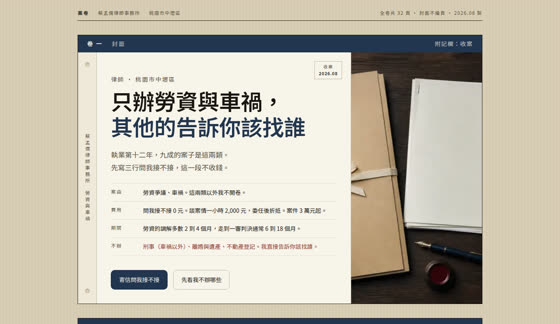
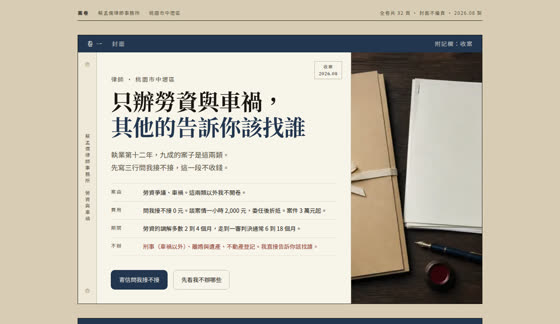
examples: 換掉四塊假的佔位色塊,律師那份修掉討論區感
yazelin 看完指出兩件事,都對:

一、florist 的花牌上還是假圖。那四塊是 CSS 漸層畫的色塊,
看起來就像沒載入的圖。換成四張真照片,各自對到花種
(洋牡丹、桔梗、大理花、混合花束),同一套風格與色票。
順手清掉先前迭代留下的死 CSS(.peek/.tag2.mini/.today/.tagline)。

二、lawyer 缺專業度。三個根因:
1. 底色是牛皮紙條紋,法律事務所配瓦楞紙紋像文具行樣本 -> 拿掉
2. 全站零襯線體 -> 標題與卷號改明體,中文的權威感靠這個
3. 那段清單是「左編號 中標題摘要 右狀態按鈕」,那是論壇列表的版型
   -> 改成文件表格:頁次 / 案由與範圍 / 金額 / 開卷與否,
      細線分隔,拿掉填色徽章。順便統一三十二列的欄位順序,
      原本有兩種寫法,指定 grid-column 之後會錯位到第二列。

圖全部轉 webp,四張花照共 100KB,img 目錄總共 428KB。

Changed region(s): [[0.1821, 0.2778, 0.5464, 0.4321], [0.5768, 0.216, 0.6071, 0.2469], [0.1518, 0.1235, 0.1821, 0.1543]]

diff --git a/examples/lawyer.html b/examples/lawyer.html
@@ -44,10 +44,13 @@
     --mark: #8e3a2f;  --tint: #efe9d9;
     --maxw-text: 34em;
   }
-  body { background: var(--bg); color: var(--fg);
-    background-image: repeating-linear-gradient(90deg,
-      rgba(26,23,18,.05) 0 1px, transparent 1px 8px); }
+  body { background: var(--bg); color: var(--fg); }
 
+  /* 法律文件的權威感靠明體。沒有 Noto Serif 的機器退回系統襯線體。 */
+  h1, h2, .vol__bar .t, .cover .intake b, .pg__b b {
+    font-family: "Noto Serif TC", "Noto Serif CJK TC", "Source Han Serif TC",
+                 "Songti TC", Georgia, serif; }
+  h1, h2 { font-weight: 700; }
   .file { max-width: 66rem; margin-inline: auto; padding-inline: var(--space-3); }
   section { padding: 0; }
   h1 span, h2 span { display: inline-block; }
@@ -131,8 +134,7 @@
   .tab--in { border-left: 5px solid var(--accent); }
   .tab--out { border-style: dashed; border-color: var(--line); background: transparent;
     color: var(--fg-muted);
-    background-image: repeating-linear-gradient(45deg,
-      transparent 0 7px, rgba(26,23,18,.06) 7px 14px); }
+    background-image: none; }
   .tab i { font-style: normal; font-size: 0.66rem; letter-spacing: 0.1em;
     color: var(--fg-muted); text-combine-upright: all; }
   .tab--in i { color: var(--accent); }
@@ -149,21 +151,32 @@
   .pages { list-style: none; margin: 0; padding: 0; }
   .pages > li { border-bottom: 1px solid var(--rule); }
   .pages > li:last-child { border-bottom: 0; }
-  .pg { display: grid; grid-template-columns: 3.4rem minmax(0, 1fr);
-    gap: 0 var(--space-2); padding: var(--space-3); }
-  .pg__n { font-size: 0.7rem; letter-spacing: 0.1em; color: var(--fg-muted);
+  /* 條列式的文件表格。原本是「左編號 中標題摘要 右狀態按鈕」,那是論壇列表的版型。 */
+  .pg { display: grid; grid-template-columns: 4.2rem minmax(0, 1fr) 6.5rem 5.5rem;
+    gap: 0 var(--space-3); padding: var(--space-3) var(--space-2);
+    align-items: baseline; }
+  @media (max-width: 46rem){
+    .pg { grid-template-columns: 4.2rem minmax(0,1fr); }
+  }
+  .pg__n { grid-column: 1; font-size: 0.7rem; letter-spacing: 0.1em; color: var(--fg-muted);
     font-variant-numeric: tabular-nums; padding-top: 0.35rem; }
+  .pg__b { grid-column: 2; }
   .pg__b b { display: block; font-size: var(--step-0); font-weight: 600; }
   .pg__b i { display: block; font-style: normal; font-size: var(--step-s);
     color: var(--fg-muted); max-width: 38em; }
-  .pg__s { grid-column: 2; display: flex; flex-wrap: wrap; align-items: baseline;
-    gap: 0.5rem var(--space-2); margin-top: 0.5rem; font-size: var(--step-s); }
-  .pg__t { border: 1px solid var(--line); padding: 0.05rem 0.5rem;
-    font-size: 0.7rem; letter-spacing: 0.14em; white-space: nowrap; }
-  .pg__t--in { border-color: var(--accent); color: var(--accent-fg);
-    background: var(--accent); }
-  .pg__t--out { border-color: var(--mark); color: var(--mark); border-style: dashed; }
-  .pg__v { color: var(--fg-muted); font-variant-numeric: tabular-nums; }
+  /* 起價與開卷與否各自成欄,靠細線與對齊分開,不用填色徽章。 */
+  .pg__s { display: contents; }
+  .pg__t { grid-column: 4; grid-row: 1; font-size: 0.76rem; letter-spacing: 0.1em;
+    white-space: nowrap; text-align: right; }
+  .pg__t--in { color: var(--accent); }
+  .pg__t--out { color: var(--mark); }
+  .pg__v { grid-column: 3; grid-row: 1; color: var(--fg); font-variant-numeric: tabular-nums;
+    font-size: var(--step-s); text-align: right; white-space: nowrap; }
+  @media (max-width: 46rem){
+    .pg__s { display: flex; grid-column: 2; gap: var(--space-2);
+      margin-top: 0.5rem; align-items: baseline; }
+    .pg__t, .pg__v { grid-column: auto; grid-row: auto; text-align: left; }
+  }
 
   /* 卷末註記。這一卷收在哪裡 */
   .vol__end { border-top: 1px solid var(--fg); background: var(--tint);
@@ -277,43 +290,43 @@
     <ol class="pages">
       <li><div class="pg"><span class="pg__n">頁 001</span>
         <span class="pg__b"><b>勞資爭議</b><i>解僱與資遣、資遣費與預告工資、加班費與工資、特休、離職後的競業禁止條款。勞動契約要簽之前拿來給我看也算這一類。</i></span>
-        <span class="pg__s"><span class="pg__t pg__t--in">開卷</span><span class="pg__v">5 萬元起</span></span>
+        <span class="pg__s"><span class="pg__v">5 萬元起</span><span class="pg__t pg__t--in">開卷</span></span>
       </div></li>
       <li><div class="pg"><span class="pg__n">頁 002</span>
         <span class="pg__b"><b>職業災害</b><i>上班受傷或通勤受傷之後，和公司談不攏的補償與賠償。醫療期間的工資與後續的失能部分都在這一頁裡。</i></span>
-        <span class="pg__s"><span class="pg__t pg__t--in">開卷</span><span class="pg__v">8 萬元起</span></span>
+        <span class="pg__s"><span class="pg__v">8 萬元起</span><span class="pg__t pg__t--in">開卷</span></span>
       </div></li>
       <li><div class="pg"><span class="pg__n">頁 003</span>
         <span class="pg__b"><b>車禍求償</b><i>對方或保險公司給的數字你覺得不對，走和解、調解或民事訴訟。汽機車、行人被撞、乘客受傷都接。</i></span>
-        <span class="pg__s"><span class="pg__t pg__t--in">開卷</span><span class="pg__v">3 萬元起</span></span>
+        <span class="pg__s"><span class="pg__v">3 萬元起</span><span class="pg__t pg__t--in">開卷</span></span>
       </div></li>
       <li><div class="pg"><span class="pg__n">頁 004</span>
         <span class="pg__b"><b>車禍的刑事部分</b><i>過失傷害的告訴與和解，還有附帶提起的民事求償。被告那一方我也接，兩邊我不會同時接同一件。</i></span>
-        <span class="pg__s"><span class="pg__t pg__t--in">開卷</span><span class="pg__v">4 萬元起</span></span>
+        <span class="pg__s"><span class="pg__v">4 萬元起</span><span class="pg__t pg__t--in">開卷</span></span>
       </div></li>
       <li><div class="pg"><span class="pg__n">頁 005</span>
         <span class="pg__b"><b>車禍以外的刑事案件</b><i>毒品、詐欺、傷害、公共危險，我一件都不接。刑事辯護要靠平常一直在做的手感，我沒有。</i></span>
-        <span class="pg__s"><span class="pg__t pg__t--out">不開卷</span><span class="pg__v">給你兩個同業的名字</span></span>
+        <span class="pg__s"><span class="pg__v">給你兩個同業的名字</span><span class="pg__t pg__t--out">不開卷</span></span>
       </div></li>
       <li><div class="pg"><span class="pg__n">頁 006</span>
         <span class="pg__b"><b>離婚、監護、遺產分割</b><i>家事的節奏和勞資完全不同，排期也長，我沒有在做。接了你要多等的是時間。</i></span>
-        <span class="pg__s"><span class="pg__t pg__t--out">不開卷</span><span class="pg__v">給你兩個同業的名字</span></span>
+        <span class="pg__s"><span class="pg__v">給你兩個同業的名字</span><span class="pg__t pg__t--out">不開卷</span></span>
       </div></li>
       <li><div class="pg"><span class="pg__n">頁 007</span>
         <span class="pg__b"><b>不動產登記、繼承登記、買賣過戶</b><i>那是地政士（代書）在做的事，跑件的流程他們比我熟，收費也比找律師低。</i></span>
-        <span class="pg__s"><span class="pg__t pg__t--out">不開卷</span><span class="pg__v">找地政士</span></span>
+        <span class="pg__s"><span class="pg__v">找地政士</span><span class="pg__t pg__t--out">不開卷</span></span>
       </div></li>
       <li><div class="pg"><span class="pg__n">頁 008</span>
         <span class="pg__b"><b>公司、商務契約、智慧財產、跨國案件</b><i>不接。分界線在這裡：你和員工之間的契約我看，你和另一家公司之間的契約我不看。</i></span>
-        <span class="pg__s"><span class="pg__t pg__t--out">不開卷</span><span class="pg__v">給你兩個同業的名字</span></span>
+        <span class="pg__s"><span class="pg__v">給你兩個同業的名字</span><span class="pg__t pg__t--out">不開卷</span></span>
       </div></li>
       <li><div class="pg"><span class="pg__n">頁 009</span>
         <span class="pg__b"><b>一審開到一半才要換律師</b><i>先看卷。卷裡已經講出去的話收不回來，我要確認換人對你真的有幫助，才會接。看卷這一段照諮詢收費。</i></span>
-        <span class="pg__s"><span class="pg__t">看卷再定</span><span class="pg__v">2,000 元一小時</span></span>
+        <span class="pg__s"><span class="pg__v">2,000 元一小時</span><span class="pg__t">看卷再定</span></span>
       </div></li>
       <li><div class="pg"><span class="pg__n">頁 010</span>
         <span class="pg__b"><b>要我保證告得贏</b><i>沒有人保證得了，法官還沒看過你的證據。你如果需要的是那句保證，我這裡給不了，這種委任我不接。</i></span>
-        <span class="pg__s"><span class="pg__t pg__t--out">不開卷</span><span class="pg__v">當場說不</span></span>
+        <span class="pg__s"><span class="pg__v">當場說不</span><span class="pg__t pg__t--out">不開卷</span></span>
       </div></li>
     </ol>
 
@@ -326,31 +339,31 @@
     <ol class="pages">
       <li><div class="pg"><span class="pg__n">頁 011</span>
         <span class="pg__b"><b>問我接不接，不收錢</b><i>寫三行給我：發生什麼、什麼時候、你想要什麼結果。我回你接或不接，不接會寫該找誰。這一段沒有帳單。</i></span>
-        <span class="pg__s"><span class="pg__t">不收費</span><span class="pg__v">0 元</span></span>
+        <span class="pg__s"><span class="pg__v">0 元</span><span class="pg__t">不收費</span></span>
       </div></li>
       <li><div class="pg"><span class="pg__n">頁 012</span>
         <span class="pg__b"><b>要談你的案情，一小時 2,000 元</b><i>把資料攤開來看，講你這件事有哪幾條路、各要花多少時間。後來委任我，這筆從案件費用裡扣掉。</i></span>
-        <span class="pg__s"><span class="pg__t">諮詢</span><span class="pg__v">2,000 元一小時</span></span>
+        <span class="pg__s"><span class="pg__v">2,000 元一小時</span><span class="pg__t">諮詢</span></span>
       </div></li>
       <li><div class="pg"><span class="pg__n">頁 013</span>
         <span class="pg__b"><b>勞資：調解程序</b><i>含撰狀、算金額、陪你出席調解期日。多數勞資案子先走這一段，很多也在這一段就結束了。</i></span>
-        <span class="pg__s"><span class="pg__t">案件</span><span class="pg__v">4 萬元起</span></span>
+        <span class="pg__s"><span class="pg__v">4 萬元起</span><span class="pg__t">案件</span></span>
       </div></li>
       <li><div class="pg"><span class="pg__n">頁 014</span>
         <span class="pg__b"><b>訴訟：按審級算，一審 8 萬元起</b><i>一審從遞狀到判決是同一筆，開幾次庭都不再加錢。要不要上訴到二審，判決下來我們再談，那是另一筆。</i></span>
-        <span class="pg__s"><span class="pg__t">案件</span><span class="pg__v">8 萬元起</span></span>
+        <span class="pg__s"><span class="pg__v">8 萬元起</span><span class="pg__t">案件</span></span>
       </div></li>
       <li><div class="pg"><span class="pg__n">頁 015</span>
         <span class="pg__b"><b>車禍：和解或調解的代理</b><i>陪你去區公所的調解委員會或和保險公司談。談成就結案，談不成要不要走訴訟，你決定。</i></span>
-        <span class="pg__s"><span class="pg__t">案件</span><span class="pg__v">3 萬元起</span></span>
+        <span class="pg__s"><span class="pg__v">3 萬元起</span><span class="pg__t">案件</span></span>
       </div></li>
       <li><div class="pg"><span class="pg__n">頁 016</span>
         <span class="pg__b"><b>不收成功報酬，可以分期</b><i>簽委任契約那天你就知道總共要付多少，不會贏了再多抽一份。簽約付一半，剩下的分兩期。</i></span>
-        <span class="pg__s"><span class="pg__t">付款</span><span class="pg__v">簽約付一半</span></span>
+        <span class="pg__s"><span class="pg__v">簽約付一半</span><span class="pg__t">付款</span></span>
       </div></li>
       <li><div class="pg"><span class="pg__n">頁 017</span>
         <span class="pg__b"><b>規費、鑑定費這些代墊款另計</b><i>要墊之前先告訴你金額，你點頭我才墊。每一筆都有收據，結案時一起對。</i></span>
-        <span class="pg__s"><span class="pg__t">代墊</span><span class="pg__v">實支實付</span></span>
+        <span class="pg__s"><span class="pg__v">實支實付</span><span class="pg__t">代墊</span></span>
       </div></li>
     </ol>
     <div class="vol__end"><p>會跟你收的錢都在這七頁裡。委任契約拿到手可以帶回去看兩天，再回來簽。</p></div>
@@ -362,27 +375,27 @@
     <ol class="pages">
       <li><div class="pg"><span class="pg__n">頁 018</span>
         <span class="pg__b"><b>寄信給我之後</b><i>一到兩個工作天回你。在開庭的日子會晚一點，但不會沒有下文。</i></span>
-        <span class="pg__s"><span class="pg__t">回覆</span><span class="pg__v">1 到 2 個工作天</span></span>
+        <span class="pg__s"><span class="pg__v">1 到 2 個工作天</span><span class="pg__t">回覆</span></span>
       </div></li>
       <li><div class="pg"><span class="pg__n">頁 019</span>
         <span class="pg__b"><b>談一次要多久</b><i>一小時。多數人談完當天就知道要不要走下去，不用再約第二次。</i></span>
-        <span class="pg__s"><span class="pg__t">諮詢</span><span class="pg__v">1 小時</span></span>
+        <span class="pg__s"><span class="pg__v">1 小時</span><span class="pg__t">諮詢</span></span>
       </div></li>
       <li><div class="pg"><span class="pg__n">頁 020</span>
         <span class="pg__b"><b>勞資：法院的勞動調解</b><i>勞資的案子上法院之前原則上要先走這一關。從遞狀到第一次期日大約一到一個半月，多數在三次期日之內結束。</i></span>
-        <span class="pg__s"><span class="pg__t">調解</span><span class="pg__v">2 到 4 個月</span></span>
+        <span class="pg__s"><span class="pg__v">2 到 4 個月</span><span class="pg__t">調解</span></span>
       </div></li>
       <li><div class="pg"><span class="pg__n">頁 021</span>
         <span class="pg__b"><b>車禍：先談和解或調解</b><i>區公所的調解委員會排期大約一個月，一次談不成可以再排。這一段談得成，後面整段都省下來。</i></span>
-        <span class="pg__s"><span class="pg__t">調解</span><span class="pg__v">1 到 3 個月</span></span>
+        <span class="pg__s"><span class="pg__v">1 到 3 個月</span><span class="pg__t">調解</span></span>
       </div></li>
       <li><div class="pg"><span class="pg__n">頁 022</span>
         <span class="pg__b"><b>調解不成，進到一審</b><i>我手上這幾年的案子多半是半年到一年半，中間開三到六次庭。多數庭期你不用到，我去。這是區間，我不能保證。</i></span>
-        <span class="pg__s"><span class="pg__t">訴訟</span><span class="pg__v">6 到 18 個月</span></span>
+        <span class="pg__s"><span class="pg__v">6 到 18 個月</span><span class="pg__t">訴訟</span></span>
       </div></li>
       <li><div class="pg"><span class="pg__n">頁 023</span>
         <span class="pg__b"><b>會咬人的是期限</b><i>車禍要走刑事過失傷害，法律給的告訴期間是六個月；民事求償的時效通則是兩年。這兩個從哪一天起算要看事實，我不會在網頁上替你算，但你寄信來，我至少能先告訴你急不急。</i></span>
-        <span class="pg__s"><span class="pg__t pg__t--out">先問時效</span><span class="pg__v">六個月／兩年</span></span>
+        <span class="pg__s"><span class="pg__v">六個月／兩年</span><span class="pg__t pg__t--out">先問時效</span></span>
       </div></li>
     </ol>
     <div class="vol__end"><p>時間我先寫在這裡，是要你能自己排順序。開始之後每個月我會講一句現在在等什麼，沒有進度也會講。</p></div>
@@ -394,23 +407,23 @@
     <ol class="pages">
       <li><div class="pg"><span class="pg__n">頁 024</span>
         <span class="pg__b"><b>這一頁沒有一句話是針對你的案子講的</b><i>法律的答案幾乎都被事實決定：哪一天發生、簽過什麼、對方講過什麼、留下哪些紀錄。同一句「被資遣可以拿資遣費」，換一個到職日或換一種契約就是另一個答案。網頁上寫得出來的只有通則，通則多半用不到你這一件上。</i></span>
-        <span class="pg__s"><span class="pg__t pg__t--out">界線</span><span class="pg__v">不提供個案意見</span></span>
+        <span class="pg__s"><span class="pg__v">不提供個案意見</span><span class="pg__t pg__t--out">界線</span></span>
       </div></li>
       <li><div class="pg"><span class="pg__n">頁 025</span>
         <span class="pg__b"><b>為什麼電話裡我不會回答「我這樣告得贏嗎」</b><i>沒看過資料就給的答案，你拿去用會出事，而我要負責。把東西攤開來看再講，那就是收費諮詢在做的事。</i></span>
-        <span class="pg__s"><span class="pg__t pg__t--out">界線</span><span class="pg__v">看過資料才講</span></span>
+        <span class="pg__s"><span class="pg__v">看過資料才講</span><span class="pg__t pg__t--out">界線</span></span>
       </div></li>
       <li><div class="pg"><span class="pg__n">頁 026</span>
         <span class="pg__b"><b>第一次見面要帶什麼</b><i>手上有什麼就帶什麼：勞健保投保資料、出勤紀錄、對話紀錄、行車紀錄器影像、診斷證明、估價單。什麼都沒有也可以來，缺的我會告訴你去哪裡調。</i></span>
-        <span class="pg__s"><span class="pg__t">常問</span><span class="pg__v">有什麼帶什麼</span></span>
+        <span class="pg__s"><span class="pg__v">有什麼帶什麼</span><span class="pg__t">常問</span></span>
       </div></li>
       <li><div class="pg"><span class="pg__n">頁 027</span>
         <span class="pg__b"><b>已經在跟對方談了，還能找律師嗎</b><i>可以。只有一件事先提醒：還沒簽的和解書先別簽，簽下去就是契約，之後要推翻很難。你們談到哪一步，我看過才知道還有多少空間。</i></span>
-        <span class="pg__s"><span class="pg__t">常問</span><span class="pg__v">先別簽</span></span>
+        <span class="pg__s"><span class="pg__v">先別簽</span><span class="pg__t">常問</span></span>
       </div></li>
       <li><div class="pg"><span class="pg__n">頁 028</span>
         <span class="pg__b"><b>你會不會一直打給我</b><i>不會。案子有動作我才聯絡你。你要找我隨時可以，委任期間問問題不另外算錢。</i></span>
-        <span class="pg__s"><span class="pg__t">常問</span><span class="pg__v">不推銷</span></span>
+        <span class="pg__s"><span class="pg__v">不推銷</span><span class="pg__t">常問</span></span>
       </div></li>
     </ol>
     <div class="vol__end"><p>寫在這一頁的是通則，通則沒有辦法替你的案子作決定。要知道你這件怎麼走，我們得把文件攤開來看。</p></div>
@@ -422,19 +435,19 @@
     <ol class="pages">
       <li><div class="pg"><span class="pg__n">頁 029</span>
         <span class="pg__b"><b>寫三行寄給我</b><i>發生什麼、什麼時候發生、你想要什麼結果。附件不用整理，有什麼拍什麼。</i></span>
-        <span class="pg__s"><span class="pg__t">你</span><span class="pg__v">3 行</span></span>
+        <span class="pg__s"><span class="pg__v">3 行</span><span class="pg__t">你</span></span>
       </div></li>
       <li><div class="pg"><span class="pg__n">頁 030</span>
         <span class="pg__b"><b>我回你接或不接</b><i>一到兩個工作天。不接的話我會寫該找誰，這封信不收錢。</i></span>
-        <span class="pg__s"><span class="pg__t">我</span><span class="pg__v">0 元</span></span>
+        <span class="pg__s"><span class="pg__v">0 元</span><span class="pg__t">我</span></span>
       </div></li>
       <li><div class="pg"><span class="pg__n">頁 031</span>
         <span class="pg__b"><b>談一小時</b><i>事務所或線上都可以。當場把有哪幾條路、要花多少錢、要走多久算給你。你可以拿這些去問第二個律師。</i></span>
-        <span class="pg__s"><span class="pg__t">你和我</span><span class="pg__v">2,000 元</span></span>
+        <span class="pg__s"><span class="pg__v">2,000 元</span><span class="pg__t">你和我</span></span>
       </div></li>
       <li><div class="pg"><span class="pg__n">頁 032</span>
         <span class="pg__b"><b>決定了才簽委任契約</b><i>費用與範圍都寫在契約裡，開卷從那一天起算。不委任也沒關係，那一小時你買到的是一個判斷。</i></span>
-        <span class="pg__s"><span class="pg__t">你</span><span class="pg__v">開卷</span></span>
+        <span class="pg__s"><span class="pg__v">開卷</span><span class="pg__t">你</span></span>
       </div></li>
     </ol>
     <div class="vol__cta">

diff --git a/examples/florist.html b/examples/florist.html
@@ -62,9 +62,6 @@
   h2 span { display:inline-block }
   .top .lede { font-size: var(--step-1); color: var(--fg-muted); max-width:22em; margin:0 }
   /* 首屏右邊那疊今日花牌,跟下面花架同一種牌 */
-  .today { display:grid; gap:var(--space-2); }
-  .today .tagline { font-size:.74rem; letter-spacing:.16em; color:var(--stem);
-    text-transform:uppercase; margin:0 0 .2rem }
   .facts3 { display:grid; gap:.55rem; margin:var(--space-4) 0 0;
     grid-template-columns:repeat(auto-fit,minmax(13rem,1fr)); }
   .facts3 div { position:relative; background: var(--paper); border:1px solid var(--line);
@@ -77,14 +74,6 @@
   .facts3 a { color: inherit }
   .facts3 .now { border-color: var(--bloom); }
   .facts3 .now b { color: var(--bloom) }
-  /* 首屏就先掛兩張真的花牌,重複單元第一眼就看得到 */
-  .peek { display:grid; grid-template-columns:1fr 1fr; gap:var(--space-2);
-    margin-bottom:var(--space-2) }
-  .tag2.mini { padding:var(--space-2) var(--space-3) var(--space-3); }
-  .tag2.mini .swatch { height:4.2rem; margin:var(--space-2) 0 .5rem }
-  .tag2.mini h3 { font-size: var(--step-1); margin:.1rem 0 .4rem }
-  .tag2.mini .sci { margin:0 }
-  @media (max-width:900px){ .peek { grid-template-columns:1fr 1fr } }
 
   /* 花材牌：一張一張的小標籤,各自輕輕浮動 */
   .rack { display:grid; gap:var(--space-3);
@@ -99,10 +88,10 @@
   /* 牌子上面那個洞與繩子 */
   .tag2::before { content:''; position:absolute; top:10px; left:50%; width:9px; height:9px;
     margin-left:-4.5px; border:1px solid var(--line); border-radius:50%; background:var(--bg) }
-  .tag2 .swatch { height:5.5rem; border-radius:8px; margin:var(--space-3) 0 var(--space-2);
-    background: radial-gradient(52% 56% at 38% 40%, var(--bloom) 0%, transparent 62%),
-      radial-gradient(46% 50% at 68% 64%, var(--gold) 0%, transparent 64%),
-      linear-gradient(160deg, #e9efe2, #dbe6d3); }
+  /* 花牌上的照片。原本是 CSS 漸層畫的色塊,看起來像沒載入的圖。 */
+  .tag2 .swatch { display:block; width:100%; height:8.5rem; object-fit:cover;
+    border-radius:8px; margin:var(--space-3) 0 var(--space-2);
+    background: var(--card); }
   .tag2 .sci { font-size:.72rem; letter-spacing:.12em; color:var(--stem); font-style:italic }
   .tag2 h3 { font-size:var(--step-1); margin:.15rem 0 .3rem }
   .tag2 p { margin:0 0 var(--space-2); font-size:var(--step-s); color:var(--fg-muted) }
@@ -170,22 +159,22 @@
     <p class="sub">每週一早上換一次。想要的花當週沒有的話，先打電話問，通常能調到。</p>
     <div class="rack">
       <article class="tag2"><span class="season">當季</span>
-        <div class="swatch" aria-hidden="true"></div>
+        <img class="swatch" src="img/f-ranunculus.webp" width="600" height="600" loading="lazy" alt="洋牡丹，珊瑚色與蜜桃色的層層花瓣，配幾片尤加利葉">
         <p class="sci">Ranunculus</p><h3>洋牡丹束</h3>
         <p>春天限定，開得慢，能撐一週。適合探病與道謝。</p>
         <span class="fee">880 元起</span></article>
       <article class="tag2"><span class="season">常備</span>
-        <div class="swatch" aria-hidden="true"></div>
+        <img class="swatch" src="img/f-eustoma.webp" width="600" height="600" loading="lazy" alt="桔梗，淡粉與奶油色的花朵，細長的綠色花莖">
         <p class="sci">Eustoma</p><h3>桔梗小束</h3>
         <p>一年四季都有，顏色最多。送同事、送老師都不會出錯。</p>
         <span class="fee">680 元起</span></article>
       <article class="tag2"><span class="season">當季</span>
-        <div class="swatch" aria-hidden="true"></div>
+        <img class="swatch" src="img/f-dahlia.webp" width="600" height="600" loading="lazy" alt="三朵大理花，深玫瑰色與杏色，配深綠葉材">
         <p class="sci">Dahlia</p><h3>大理花桌花</h3>
         <p>花頭大，放在餐桌或櫃檯很有存在感。開幕與喬遷常訂這個。</p>
         <span class="fee">1,600 元起</span></article>
       <article class="tag2"><span class="season">訂製</span>
-        <div class="swatch" aria-hidden="true"></div>
+        <img class="swatch" src="img/f-mixed.webp" width="600" height="600" loading="lazy" alt="以牛皮紙包起的混合季節花束，淡粉與奶油色配灰綠葉材">
         <p class="sci">Bouquet</p><h3>說預算就好</h3>
         <p>告訴我價位、送誰、什麼場合，剩下交給我配。這是最多人選的。</p>
         <span class="fee">600–3,000 元</span></article>
